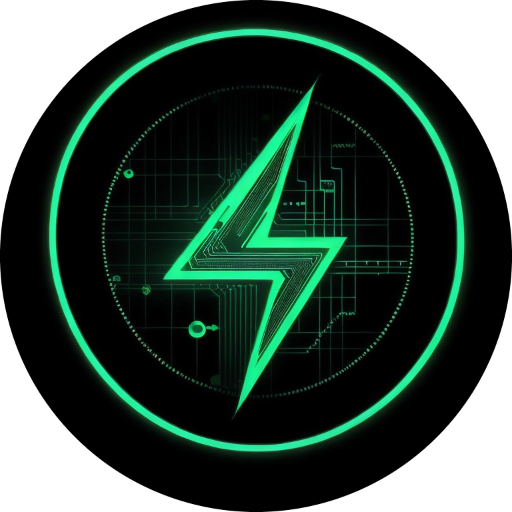
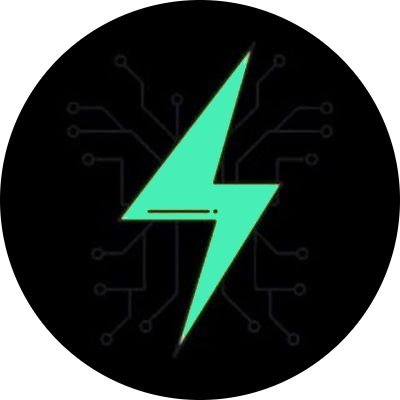
fix: home page

diff --git a/apps/web/src/views/Home/components/Hero.tsx b/apps/web/src/views/Home/components/Hero.tsx
@@ -4,9 +4,9 @@ import { NextLinkFromReactRouter } from '@pancakeswap/widgets-internal'
 
 import ConnectWalletButton from 'components/ConnectWalletButton'
 import useTheme from 'hooks/useTheme'
-import Image from 'next/image'
 import { styled } from 'styled-components'
 import { useAccount } from 'wagmi'
+import LightningBolt from './LightingBolt'
 
 // const BgWrapper = styled.div`
 //   z-index: -1;
@@ -136,7 +136,7 @@ const Hero = () => {
         <Flex flex="1" flexDirection="column">
           <Text textAlign={isMobile || isMd ? 'center' : 'left'} pr={isMobile ? 0 : '10px'} mb="16px">
             <StyledText display="inline-block" lineHeight="110%" fontWeight={600} color="text" mr="8px">
-              {t("Everyone's")}
+              {t('The')}
             </StyledText>
             <StyledText
               display="inline-block"
@@ -145,11 +145,11 @@ const Hero = () => {
               color="secondary"
               mr={isMobile ? 0 : '8px'}
             >
-              {t('Favorite')}
+              {t('Swap')}
             </StyledText>
             {isMobile && <br />}
             <StyledText display="inline-block" lineHeight="110%" fontWeight={600} color="text">
-              {t('DEX')}
+              {t('Spot')}
             </StyledText>
           </Text>
           <Text
@@ -161,7 +161,7 @@ const Hero = () => {
             lineHeight="110%"
             fontWeight={600}
           >
-            {t('Trade, earn, and own crypto on the all-in-one multichain DEX')}
+            {t('Swap, stack, and surf the blockchain waves – all from one epic hub')}
           </Text>
 
           <Flex justifyContent={isMobile || isMd ? 'center' : 'start'}>
@@ -184,13 +184,7 @@ const Hero = () => {
         >
           <BunnyWrapper>
             <CakeBox>
-              <Image
-                src="/logo.webp"
-                priority
-                width={isMobile ? width * 2 : width / 2}
-                height={isMobile ? height * 2 : height / 2}
-                alt="DBRO Swap Logo"
-              />
+              <LightningBolt />
             </CakeBox>
           </BunnyWrapper>
         </Flex>

diff --git a/apps/web/src/views/Home/components/LightingBolt.tsx b/apps/web/src/views/Home/components/LightingBolt.tsx
@@ -1,0 +1,54 @@
+const LightningBolt = () => {
+  return (
+    <div
+      style={{
+        width: '100%',
+        display: 'flex',
+        alignItems: 'center',
+        justifyContent: 'center',
+        backgroundColor: '#000',
+        padding: '0.5rem',
+      }}
+    >
+      <div
+        style={{
+          width: '100%',
+          maxWidth: '1080px',
+          position: 'relative',
+          aspectRatio: '1',
+        }}
+      >
+        <div
+          style={{
+            position: 'absolute',
+            width: '100%',
+            height: '100%',
+            borderRadius: '50%',
+            background: 'radial-gradient(circle, transparent 50%, #000 100%)',
+            zIndex: 2,
+          }}
+        />
+        <img
+          src="/boltz.webp"
+          alt="Lightning Bolt Logo"
+          style={{
+            width: '100%',
+            height: '100%',
+            objectFit: 'cover',
+            borderRadius: '50%',
+            display: 'block',
+          }}
+        />
+      </div>
+      <style jsx>{`
+        @media (max-width: 768px) {
+          div {
+            max-width: 540px;
+          }
+        }
+      `}</style>
+    </div>
+  )
+}
+
+export default LightningBolt

diff --git a/apps/web/src/views/Home/index.tsx b/apps/web/src/views/Home/index.tsx
@@ -88,7 +88,7 @@ const Home: React.FC<React.PropsWithChildren> = () => {
       </PageSection> */}
 
       <PageSection
-        innerProps={{ style: { ...HomeSectionContainerStyles, maxWidth: 'auto' } }}
+        innerProps={{ style: { ...HomeSectionContainerStyles, maxWidth: 'auto', paddingBottom: '32px' } }}
         background={theme.colors.background}
         containerProps={{
           id: 'home-1',

diff --git a/apps/web/src/views/Home/components/Footer.tsx b/apps/web/src/views/Home/components/Footer.tsx
@@ -138,7 +138,7 @@ const Footer = () => {
 
       <Wrapper>
         <Text mb="24px" fontWeight={600} color="#F4EEFF" textAlign="center" fontSize={isMobile ? 32 : 40}>
-          {t("Join Everyone's Favorite DEX Now!")}
+          {t('Where Smart Traders Meet!')}
         </Text>
         {!account && <ConnectWalletButton mt="24px" />}
       </Wrapper>
